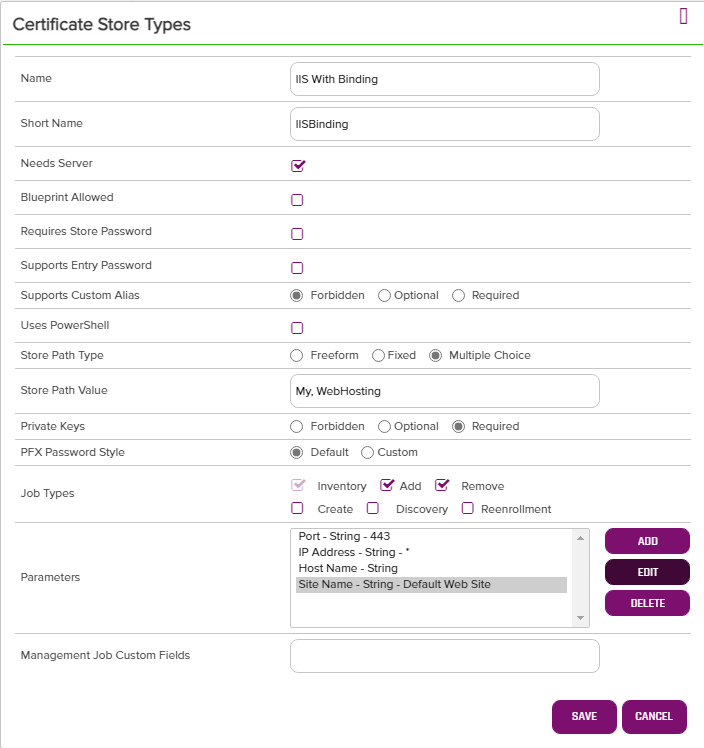
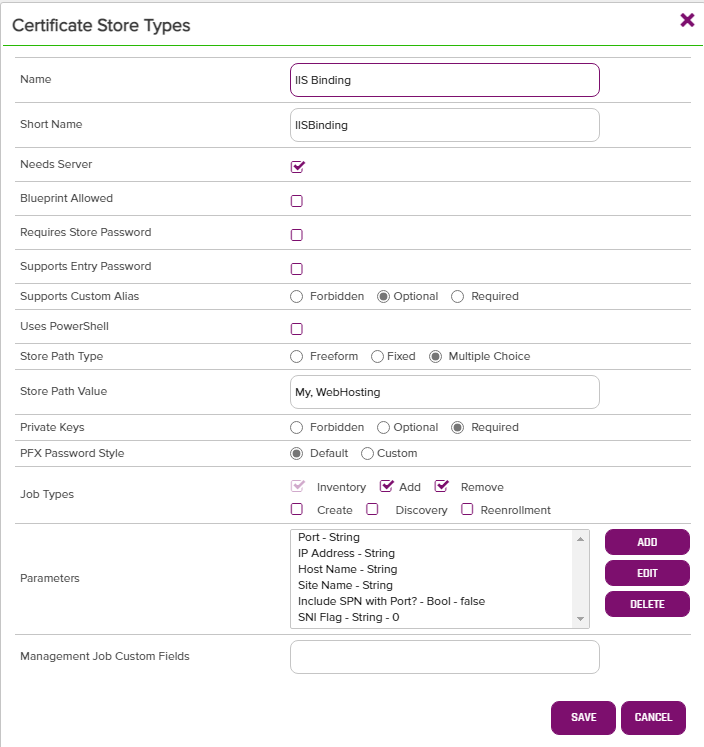
1.0.3: Add SNI flag as configurable parameter

diff --git a/IISWithBindingsTestHarness/TestHarness.cs b/IISWithBindingsTestHarness/TestHarness.cs
@@ -4,8 +4,7 @@ using System.Linq;
 using System.Text;
 using System.Threading.Tasks;
 
-using Keyfactor.Platform.Extensions.Agents;
-using Keyfactor.Platform.Extensions.Agents.Enums;
+
 
 
 using Keyfactor.Extensions.Orchestrator.IISWithBinding;
@@ -16,64 +15,10 @@ namespace IISWithBindingsTestHarness
     {
         static void Main(string[] args)
         {
-            //RunInventory();
-            RunMgmt(AnyJobOperationType.Add);
-            //RunMgmt(AnyJobOperationType.Remove);
+
         }
 
-        static void RunInventory()
-        {
-            Inventory inventory = new Inventory();
-            inventory.processJob(
-                new AnyJobConfigInfo() { Store = new AnyJobStoreInfo() { ClientMachine = "localhost", StorePath = "Default Web Site/*/443" } },
-                null, null, null
-            );
-        }
-
-        static void RunMgmt(AnyJobOperationType operation)
-        {
-            Management management = new Management();
-            management.processJob(
-                new AnyJobConfigInfo()
-                {
-                    Job = new AnyJobJobInfo()
-                    {
-                        OperationType = operation,
-                        // TestAdd Cert
-                        PfxPassword = "FrC6hkAZwpxn",
-                        EntryContents = @"
[1 lines of base64/hex data omitted]
-                        // TestReplace Cert
-                        //                        PfxPassword = "jpsjhwietwVz",
-                        //                        EntryContents = @"
[1 lines of base64/hex data omitted]
-                    },
-                    Store = new AnyJobStoreInfo() { ClientMachine = "DemoCMS.demo.cms", StorePath = "Default Web Site/*/444"} 
-                }, null, null, null
-            );
-        }
-
-        static void RunRemove()
-        {
-            Management management = new Management();
-            management.processJob(
-                new AnyJobConfigInfo()
-                {
-                    Job = new AnyJobJobInfo()
-                    {
-                        OperationType = AnyJobOperationType.Add,
-                        // TestAdd Cert
-                        //                        PfxPassword = "FrC6hkAZwpxn",
-                        //                        EntryContents = @"
[1 lines of base64/hex data omitted]
-                        // TestReplace Cert
-                        PfxPassword = "jpsjhwietwVz",
-                        EntryContents = @"
[1 lines of base64/hex data omitted]
-                    },
-                    Store = new AnyJobStoreInfo() { ClientMachine = "DemoCMS.demo.cms", StorePath = "Default Web Site/*/444/test.host.com" }
-                }, null, null, null
-            );
-        }
     }
+
+
 }

diff --git a/IISWithBindings/Jobs/Management.cs b/IISWithBindings/Jobs/Management.cs
@@ -121,7 +121,7 @@ namespace Keyfactor.Extensions.Orchestrator.IISWithBinding
                 Logger.Trace($"Begin Add for Cert Store {$@"\\{config.Store.ClientMachine}\{config.Store.StorePath}"}");
 
                 using (Runspace runspace = RunspaceFactory.CreateRunspace(connInfo))
-                {
+                {   
                     runspace.Open();
                     PowerShellCertStore psCertStore = new PowerShellCertStore(config.Store.ClientMachine, config.Store.StorePath, runspace);
                     using (PowerShell ps = PowerShell.Create())
@@ -162,10 +162,17 @@ namespace Keyfactor.Extensions.Orchestrator.IISWithBinding
                                                 Get-WebBinding -Name ""{0}"" -IPAddress ""{1}"" -Port ""{2}"" -Protocol ""{3}"" |
                                                     ForEach-Object {{ Remove-WebBinding -BindingInformation  $_.bindingInformation }}
 
-                                                New-WebBinding -Name ""{0}"" -IPAddress ""{1}"" -HostHeader ""{4}"" -Port ""{2}"" -Protocol ""{3}""
+                                                New-WebBinding -Name ""{0}"" -IPAddress ""{1}"" -HostHeader ""{4}"" -Port ""{2}"" -Protocol ""{3}"" -SslFlags ""{7}""
                                                 Get-WebBinding -Name ""{0}"" -Port ""{2}"" -Protocol ""{3}"" | 
                                                     ForEach-Object {{ $_.AddSslCertificate(""{5}"", ""{6}"") }}
-                                            }}", storePath.SiteName, storePath.IP, storePath.Port, storePath.Protocol, storePath.HostName, x509Cert.Thumbprint, config.Store.StorePath);
+                                            }}", storePath.SiteName,        //{0} 
+                                                 storePath.IP,              //{1}
+                                                 storePath.Port,            //{2}
+                                                 storePath.Protocol,        //{3}
+                                                 storePath.HostName,        //{4}
+                                                 x509Cert.Thumbprint,       //{5} 
+                                                 config.Store.StorePath,    //{6}
+                                                 (int)storePath.SniFlag);   //{7}
 
                         ps.AddScript(funcScript);
                         ps.Invoke();

diff --git a/IISWithBindings/StorePath.cs b/IISWithBindings/StorePath.cs
@@ -23,10 +23,12 @@ namespace Keyfactor.Extensions.Orchestrator.IISWithBinding
         [JsonProperty("protocol")]
         [DefaultValue("https")]
         public string Protocol { get; set; }
-
         [JsonProperty("spnwithport")]
         [DefaultValue(false)]
         public bool SPNPortFlag { get; set; }
+        [JsonProperty("sniflag")]
+        [DefaultValue(SniFlag.None)]
+        public SniFlag SniFlag { get; set; }
 
         public StorePath()
         {
@@ -45,5 +47,13 @@ namespace Keyfactor.Extensions.Orchestrator.IISWithBinding
         {
             return $@"{IP}:{Port}:{HostName}";
         }
+    }
+
+    enum SniFlag
+    {
+        None = 0,
+        SNI = 1,
+        NoneCentral = 2,
+        SniCentral = 3
     }
 }

diff --git a/IISWithBindings/PowerShellCertStore.cs b/IISWithBindings/PowerShellCertStore.cs
@@ -62,6 +62,7 @@ namespace Keyfactor.Extensions.Orchestrator.IISWithBinding
             {
                 using (PowerShell ps = PowerShell.Create())
                 {
+                   
                     ps.Runspace = Runspace;
                     //todo: accept StoreType and Store Name enum for which to open
                     string certStoreScript = $@"

diff --git a/README.md b/README.md
@@ -28,14 +28,21 @@ Store Path Value|A comma separated list of options to select from for the Store 
 Private Keys	|This determines if Keyfactor can send the private key associated with a certificate to the store.  This is requried since IIS will need the private key material to establish TLS connections.
 PFX Password Style	|This determines how the platform generate passwords to protect a PFX enrollment job that is delivered to the store.  This can be either Default (system generated) or Custom (user determined).
 Job Types	|Inventory, Add, and Remove are the supported job types. 
-Parameters	|This section must be configured with binding fields. The parameters will be populated with the appropriate data when creating a new certificate store.<br/><table><tr><th>Parameter Name</th><th>Parameter Type</th><th>Default Value</th><th>Required</th></tr><tr><td>port</td><td>String</td><td>443</td><td>Yes</td><tr><tr><td>ipAddress</td><td>String</td><td>*</td><td>Yes</td><tr><tr><td>hostName</td><td>String</td><td></td><td>No</td><tr><tr><td>siteName</td><td>String</td><td>Default Web Site</td><td>Yes</td><tr>
+Parameters	|This section must be configured with binding fields. The parameters will be populated with the appropriate data when creating a new certificate store.<br/><table><tr><th>Parameter Name</th><th>Parameter Type</th><th>Default Value</th><th>Required</th></tr><tr><td>port</td><td>String</td><td>443</td><td>Yes</td><tr><tr><td>ipAddress</td><td>String</td><td>*</td><td>Yes</td><tr><tr><td>hostName</td><td>String</td><td></td><td>No</td><tr><tr><td>siteName</td><td>String</td><td>Default Web Site</td><td>Yes</td><tr><tr><td>sniflag</td><td>String</td><td>0</td><td>No</td><tr><tr><td>spnwithport</td><td>Boolean</td><td>false</td><td>No</td><tr>
 
-**Parameters:**
+    **Parameters:**
 
-- **Site Name** – Required. The site name for the web site being bound to – i.e. &quot;Default Web Site&quot;
-- **IP Address** – Required. The IP address for the web site being bound to. Default is &quot;\*&quot; for all IP Addresses.
-- **Port** – Required. The port for the web site being bound to. Default is &quot;443&quot;.
-- **Host Name** – Optional. The host name for the web site being bound to.
+    - **Site Name** – Required. The site name for the web site being bound to – i.e. &quot;Default Web Site&quot;
+    - **IP Address** – Required. The IP address for the web site being bound to. Default is &quot;\*&quot; for all IP Addresses.
+    - **Port** – Required. The port for the web site being bound to. Default is &quot;443&quot;.
+    - **Host Name** – Optional. The host name for the web site being bound to.
+    - **SPN with Port** - Optional. Determine if the SPN assoicated with the remote connection contains the connection's port number (5985). Default is &quot;false&quot;.
+    - **SNI Enabled** – Optional. Set the SNI flag assoicated with the binding being created.Default is &quot;0&quot;. Acceptable values are:
+        - 0  No SNI
+        - 1  SNI Enabled
+        - 2  Non SNI binding which uses Central Certificate Store
+        - 3  SNI binding which uses Central Certificate Store
+
 
 **2. Register the IIS-With-Bindings AnyAgent with Keyfactor**
 
